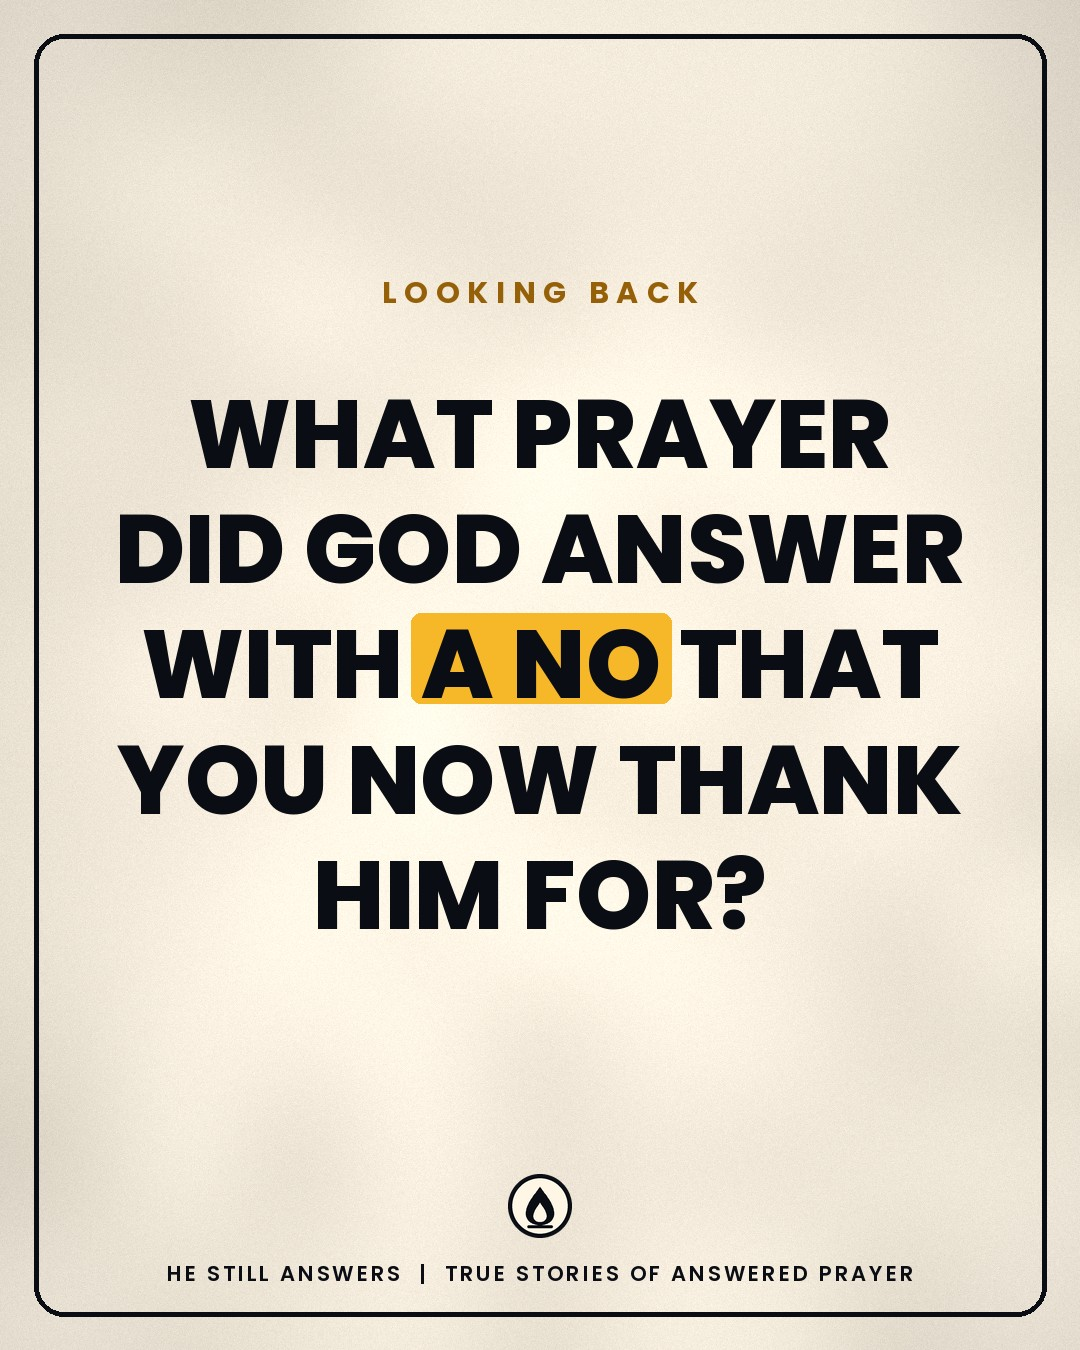
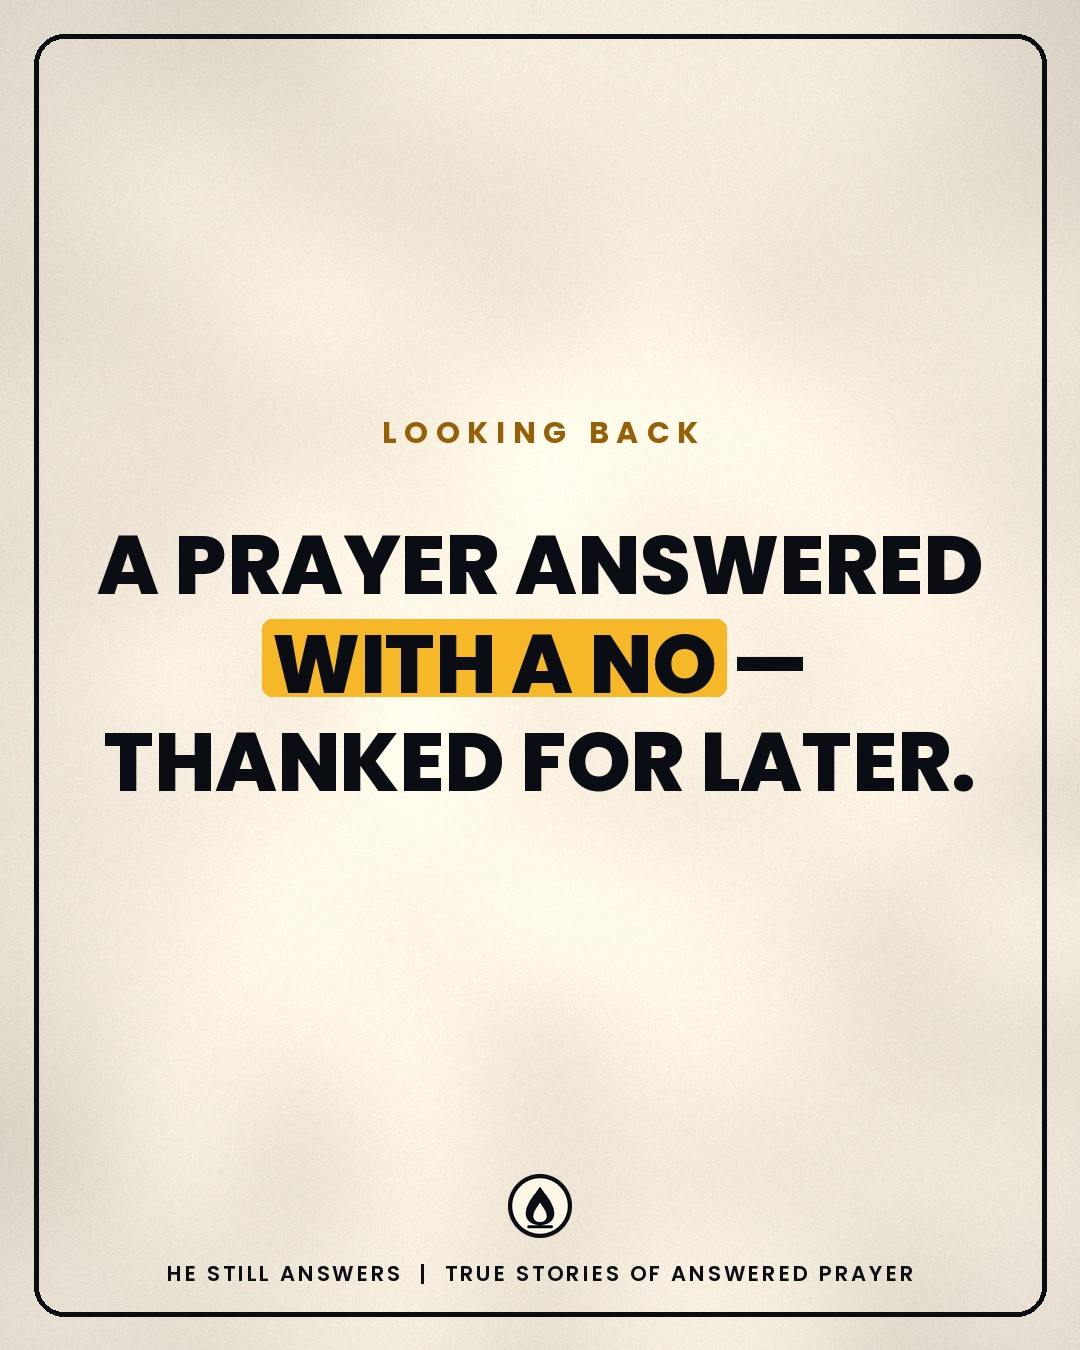
Turn batch 01 question cards into statements and add an engagement-bait guard
Changed: T001-T015 (all batch 01 question cards). Headlines are now
statements, and seven trailing reader prompts were removed from captions
(T002, T004, T007, T009, T010, T012, T013). Re-rendered T001.jpg-T015.jpg.

engine/build_csv.py: check_bait() fails the build and names the post and
phrase when a headline, caption or first comment contains engagement bait.

T016-T078 unchanged: those are Matthew Henry's questions quoted word for word.

Claude-Session: https://claude.ai/code/session_015XMpuMXyXxyRZZ6HPo77mr

Changed region(s): [[0.0917, 0.28, 0.9167, 0.7156], [0.3667, 0.1867, 0.5194, 0.2489], [0.55, 0.1867, 0.6417, 0.2489]]

diff --git a/engine/build_csv.py b/engine/build_csv.py
@@ -11,7 +11,7 @@
             05:45 / 09:30 / 16:45 PT = 8:45am / 12:30pm / 7:45pm Eastern)
 --base-url  where the finished images are hosted; each image URL becomes <base-url>/<id>.jpg
 """
-import os, re, csv, glob, argparse, datetime as dt
+import os, re, csv, glob, argparse, sys, datetime as dt
 ROOT = os.path.dirname(os.path.dirname(os.path.abspath(__file__)))
 SOURCES = {
  'W':  'Source: The Wonders of Prayer (1885), a public-domain collection of answered-prayer accounts{t}. Retold here in modern English.',
@@ -24,6 +24,61 @@ def _credits():
     f = os.path.join(ROOT, 'backgrounds', 'credits.csv')
     return {r['id']: r for r in csv.DictReader(open(f, encoding='utf-8'))} if os.path.exists(f) else {}
 CREDITS = _credits()
+
+# Engagement-bait guard (Nov 16, 2026): Meta demotes posts that ask people to
+# comment, share, tag, vote, or fill in a blank. The build FAILS if a headline,
+# caption, or first comment contains one of these. Each entry is (regex, label);
+# the label is what gets printed, so the offending post can be found fast.
+# Deliberately narrow on three points, to avoid false positives on source text:
+#  - "below" is only bait when paired with a call to act ("comment below",
+#    "tell us below", ...). On its own it is ordinary English in the books
+#    ("gone below", "in this world below", "BELOW CHRISTIANS?").
+#  - "comment" is only bait as a call to act ("leave a comment", "in the
+#    comments", "comment below"). "Without a word of comment" (S025) is not.
+#  - "say ..." is only bait as an instruction to the reader ("say AMEN").
+#    Narration like 'She did not say "if it be possible"' (S026) is not.
+#  - "..." is only bait as a fill-in ("when..."). Henry/Spurgeon quotes use
+#    ellipses legitimately, so a bare "..." is not flagged.
+BAIT_PATTERNS = [
+    (r'\b(leave a comment|in the comments?|comment below|comment your|comment with|comment!)\b', 'comment'),
+    (r'\btag\b', 'tag'),
+    (r'\bshare\b', 'share'),
+    (r'\bdrop a\b', 'drop a'),
+    (r'\bwhich are you\b', 'which are you'),
+    (r'\bfinish the sentence\b', 'finish the sentence'),
+    (r'\bme too\b', 'me too'),
+    (r'\btell us\b', 'tell us'),
+    (r'\btype\s+(amen|yes|me too|["\'])', 'type ...'),
+    (r'\bsay\s+["\'](amen|yes|me too)', 'say "..."'),
+    (r'\b(comment|share|tell us|drop|type|say|leave|post)\b[^.\n]{0,50}\bbelow\b', '... below'),
+    (r'\bin the comments? below\b', 'in the comments below'),
+    (r'\bwhen\.\.\.', 'when... (fill-in-the-blank)'),
+    (r'\bwhat is yours\?', 'what is yours?'),
+    (r'\bwhen did it happen to you\?', 'when did it happen to you?'),
+    (r'\bwho was it for you\?', 'who was it for you?'),
+    (r'\bwhat do you remember\?', 'what do you remember?'),
+    (r'\bhas someone ever shown up for you like that\?', 'has someone ever shown up for you like that?'),
+    (r'\byour answer may be the one they need\b', 'your answer may be the one they need'),
+    (r'\bwhat would you (actually )?say\b', 'what would you say?'),
+]
+_BAIT_RES = [(re.compile(p, re.IGNORECASE), label) for p, label in BAIT_PATTERNS]
+
+def check_bait(posts):
+    """Fail the build if any post's headline, caption, or first comment
+    contains engagement bait. Prints one line per hit: post ID, field,
+    and the matching phrase. Returns the posts unchanged when clean."""
+    hits = []
+    for p in posts:
+        for field in ('headline', 'caption', 'first_comment'):
+            text = re.sub(r'[*|]', ' ', p.get(field) or '')
+            for rx, label in _BAIT_RES:
+                if rx.search(text):
+                    hits.append((p['id'], field, label))
+    if hits:
+        for pid, field, label in hits:
+            print(f'ENGAGEMENT BAIT {pid} [{field}]: matched {label!r}', file=sys.stderr)
+        raise SystemExit(f'build failed: engagement bait in {len(hits)} field(s), see above')
+    return posts
 
 def parse(path):
     posts, cur, field = [], None, None
@@ -100,7 +155,7 @@ def main():
     cols = ['id', 'batch', 'day', 'date', 'time', 'type', 'headline', 'attribution', 'tag', 'scene', 'element', 'caption', 'full_text', 'first_comment', 'alt_text', 'image_file', 'image_url', 'source']
     os.makedirs(os.path.join(ROOT, 'schedule'), exist_ok=True); allrows = []
     for batch, b in sorted(cfg['batches'].items()):
-        posts = parse(os.path.join(ROOT, 'content', batch)); name = os.path.splitext(batch)[0].replace('posts_', '')
+        posts = check_bait(parse(os.path.join(ROOT, 'content', batch))); name = os.path.splitext(batch)[0].replace('posts_', '')
         d0 = dt.date.fromisoformat(b['start']); times = b['times']; rows = []
         days = order(posts) if len(times) == 3 and {p['type'] for p in posts} <= {'story', 'quote', 'prayer', 'question'} else [posts[i:i + len(times)] for i in range(0, len(posts), len(times))]
         for d, slots in enumerate(days):
